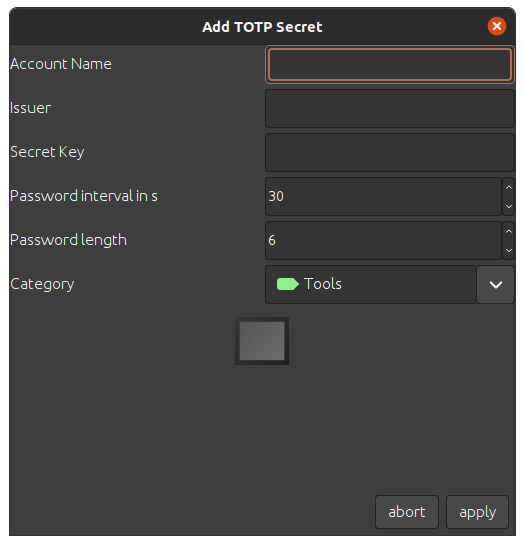
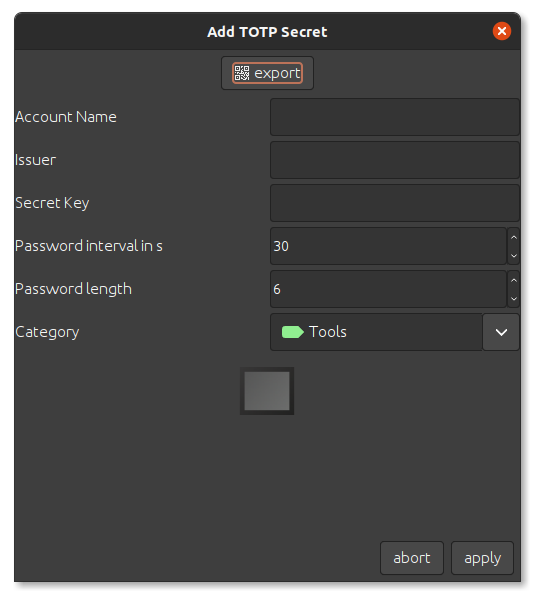
update README.md and more screenshots

diff --git a/README.md b/README.md
@@ -8,6 +8,7 @@ A Totp Client
 
 java version | app version | jar | deb
 :----------: | :---------: | :-: | :-:
+18+          | 3.2.0       | [TinyTotp.jar](https://github.com/kryptonbutterfly/TinyTotp/releases/download/v3.2.0/TinyTotp.jar) | [TinyTotp-3.2.0.deb](https://github.com/kryptonbutterfly/TinyTotp/releases/download/v3.2.0/TinyTotp-3.2.0.deb)
 18+          | 3.1.0       | [TinyTotp.jar](https://github.com/kryptonbutterfly/TinyTotp/releases/download/v3.1.0/TinyTotp.jar) | [TinyTotp-3.1.0.deb](https://github.com/kryptonbutterfly/TinyTotp/releases/download/v3.1.0/TinyTotp-3.1.0.deb)
 18+          | 3.0.0       | [TinyTotp.jar](https://github.com/kryptonbutterfly/TinyTotp/releases/download/v3.0.0/TinyTotp.jar) | [TinyTotp-3.0.0.deb](https://github.com/kryptonbutterfly/TinyTotp/releases/download/v3.0.0/TinyTotp-3.0.0.deb)
 18+          | 2.0.0       | [TinyTotp.jar](https://github.com/kryptonbutterfly/TinyTotp/releases/download/v2.0.0/TinyTotp.jar) | [TinyTotp-2.0.0.deb](https://github.com/kryptonbutterfly/TinyTotp/releases/download/v2.0.0/TinyTotp-2.0.0.deb)
@@ -22,4 +23,17 @@ This password is used to encryt/decrypt your totp secrets.
 ## Images
 
 ![](https://raw.githubusercontent.com/kryptonbutterfly/TinyTotp/master/md/Main.png)
-![](https://raw.githubusercontent.com/kryptonbutterfly/TinyTotp/master/md/AddSecret.png)
+<details>
+<summary>more images</summary>
+
+![Categories](https://raw.githubusercontent.com/kryptonbutterfly/TinyTotp/master/md/Categories.png)
+
+![Import Secret](https://raw.githubusercontent.com/kryptonbutterfly/TinyTotp/master/md/Import-Secret.png)
+![Import Secret via webcam](https://raw.githubusercontent.com/kryptonbutterfly/TinyTotp/master/md/Import-Qr.png)
+
+![Add Totp Secret](https://raw.githubusercontent.com/kryptonbutterfly/TinyTotp/master/md/AddSecret.png)
+
+![Edit Totp Secret](https://raw.githubusercontent.com/kryptonbutterfly/TinyTotp/master/md/Edit-Totp.png)
+
+![Export Secret](https://raw.githubusercontent.com/kryptonbutterfly/TinyTotp/master/md/Export-Secret.png)
+</details>
